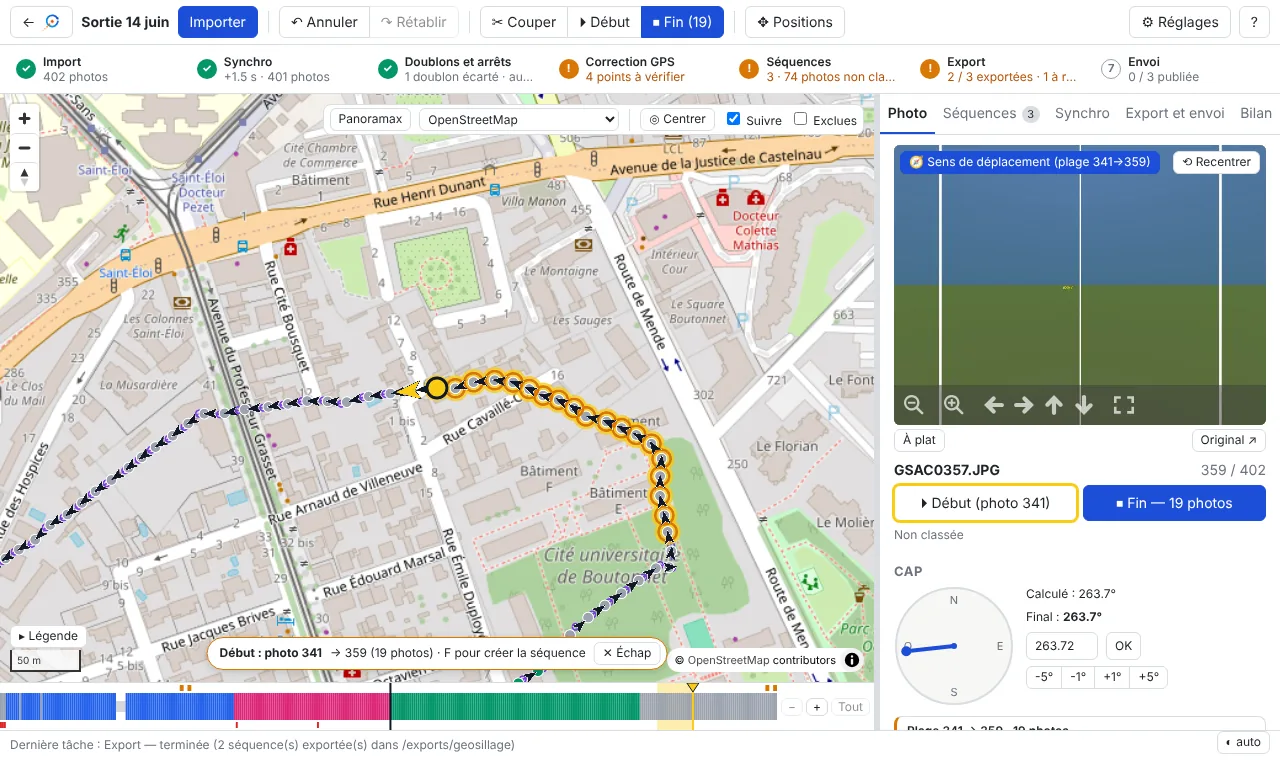
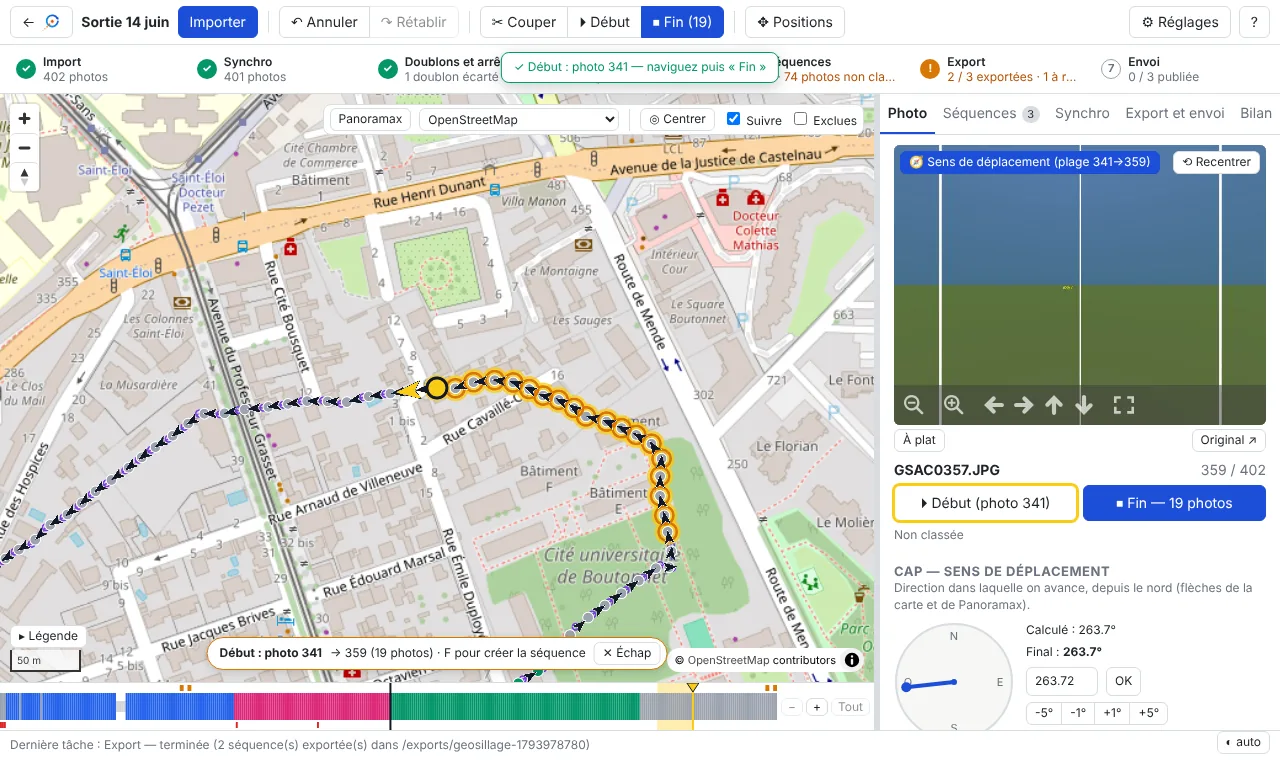
Barre d'étapes : retirer le décalage de l'étape Synchro
Le décalage peut varier d'un lot de photos à l'autre : l'étape n'affiche
plus que le nombre de photos synchronisées (décalages par lot dans l'onglet
Synchro, rappelé dans l'info-bulle). Guide et captures mis à jour.

Claude-Session: https://claude.ai/code/session_01UxooiVhdVeQwoswzGWUzwV

diff --git a/frontend/src/StepBar.tsx b/frontend/src/StepBar.tsx
@@ -52,13 +52,13 @@ export default function StepBar({
 
   // 2. GPS delay: photos placed on the track by the time synchronisation
   const synced = photos.filter((p) => p.pos_method === 'time').length
-  const off = project.sync_offset_s
   steps.push({
     id: 'sync',
     label: 'Synchro',
     state: synced ? 'ok' : 'todo',
-    sub: synced ? `${off != null ? `${off >= 0 ? '+' : ''}${off.toFixed(1)} s · ` : ''}${plural(synced, 'photo', 'photos')}` : 'pas encore faite',
-    help: 'Retard du GPS de la caméra : faites glisser une photo le long de la trace sur la vue satellite (onglet Synchro).',
+    // the offset is not shown: it can differ from one batch of photos to another (see the Synchro tab)
+    sub: synced ? `${plural(synced, 'photo', 'photos')}` : 'pas encore faite',
+    help: (synced ? `${plural(synced, 'photo synchronisée', 'photos synchronisées')} ; décalages par lot dans l'onglet Synchro. ` : '') + 'Retard du GPS de la caméra : faites glisser une photo le long de la trace sur la vue satellite (onglet Synchro).',
     go: () => onTab('sync'),
   })
 

diff --git a/doc/GUIDE_UTILISATEUR.md b/doc/GUIDE_UTILISATEUR.md
@@ -124,7 +124,7 @@ commencée) ; l'étape de l'onglet ouvert est encadrée. Au survol, le détail ;
 | Étape | Orange quand… | Clic |
 |---|---|---|
 | Import | — (gris tant qu'aucune photo) | *Bilan* |
-| Synchro | — (grise tant qu'aucun décalage n'est appliqué ; verte avec le décalage et le nombre de photos placées) | *Synchro* |
+| Synchro | — (grise tant qu'aucun décalage n'est appliqué ; verte avec le nombre de photos synchronisées, sans le décalage ; les décalages, qui peuvent varier d'un lot de photos à l'autre, sont dans l'onglet) | *Synchro* |
 | Doublons et arrêts | des arrêts restent à trier (les fichiers identiques sont écartés à l'import) | fenêtre *À corriger* : la liste des arrêts |
 | Correction GPS | photos sans position, sauts GPS non corrigés, points à vérifier (écarts, précision GPS, caps) | fenêtre *À corriger* : problèmes, cause, correction ; un clic sur une photo y va (*Bilan* quand tout est vert) |
 | Séquences | photos ni dans une séquence, ni exclues | fenêtre *À corriger* (photos non classées) ; onglet *Séquences* quand tout est vert |
